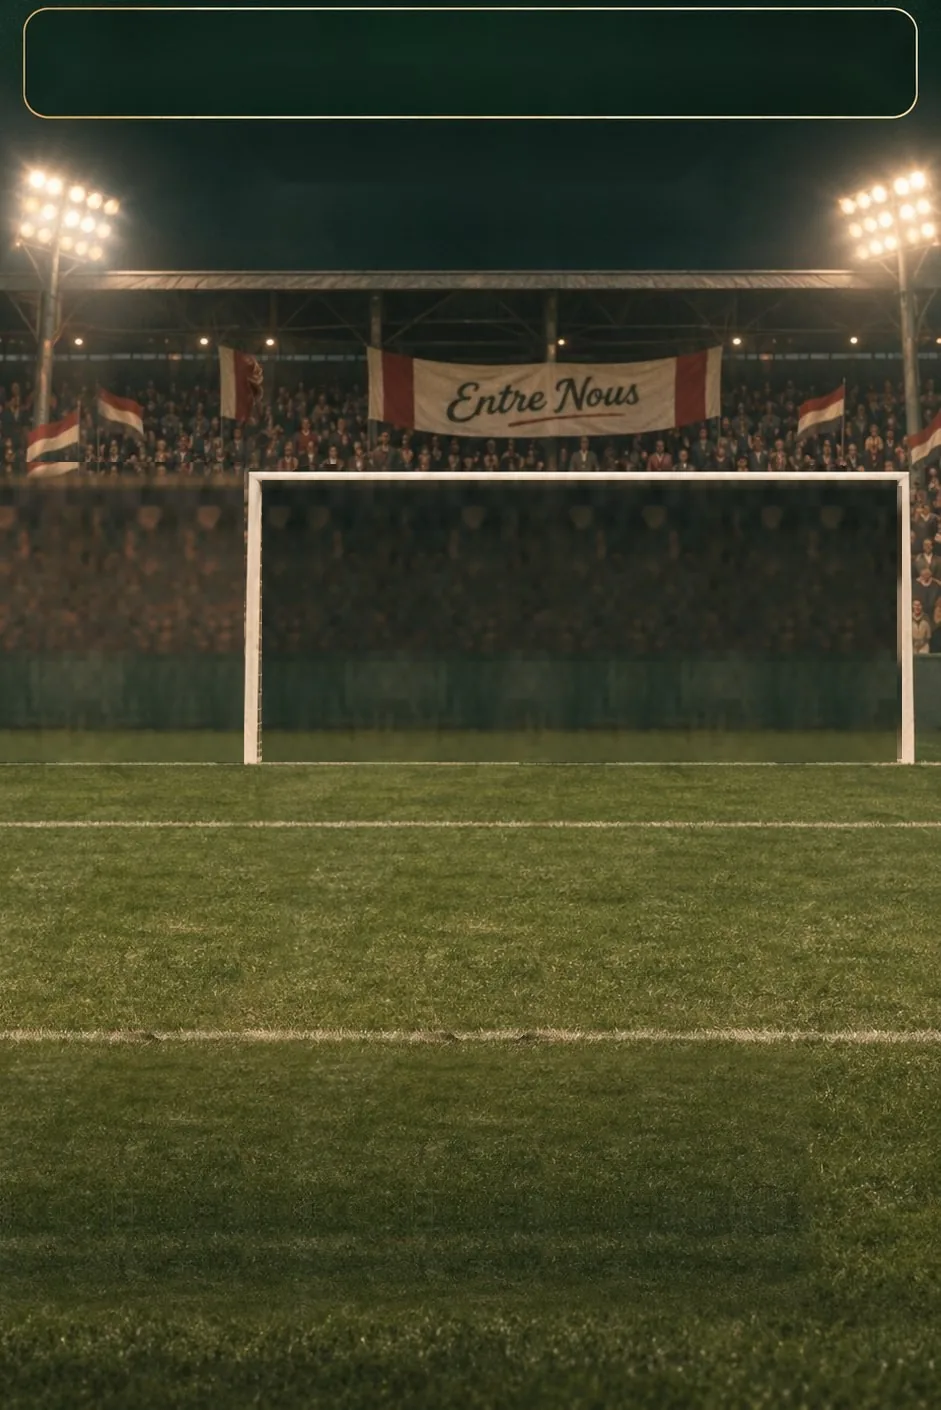
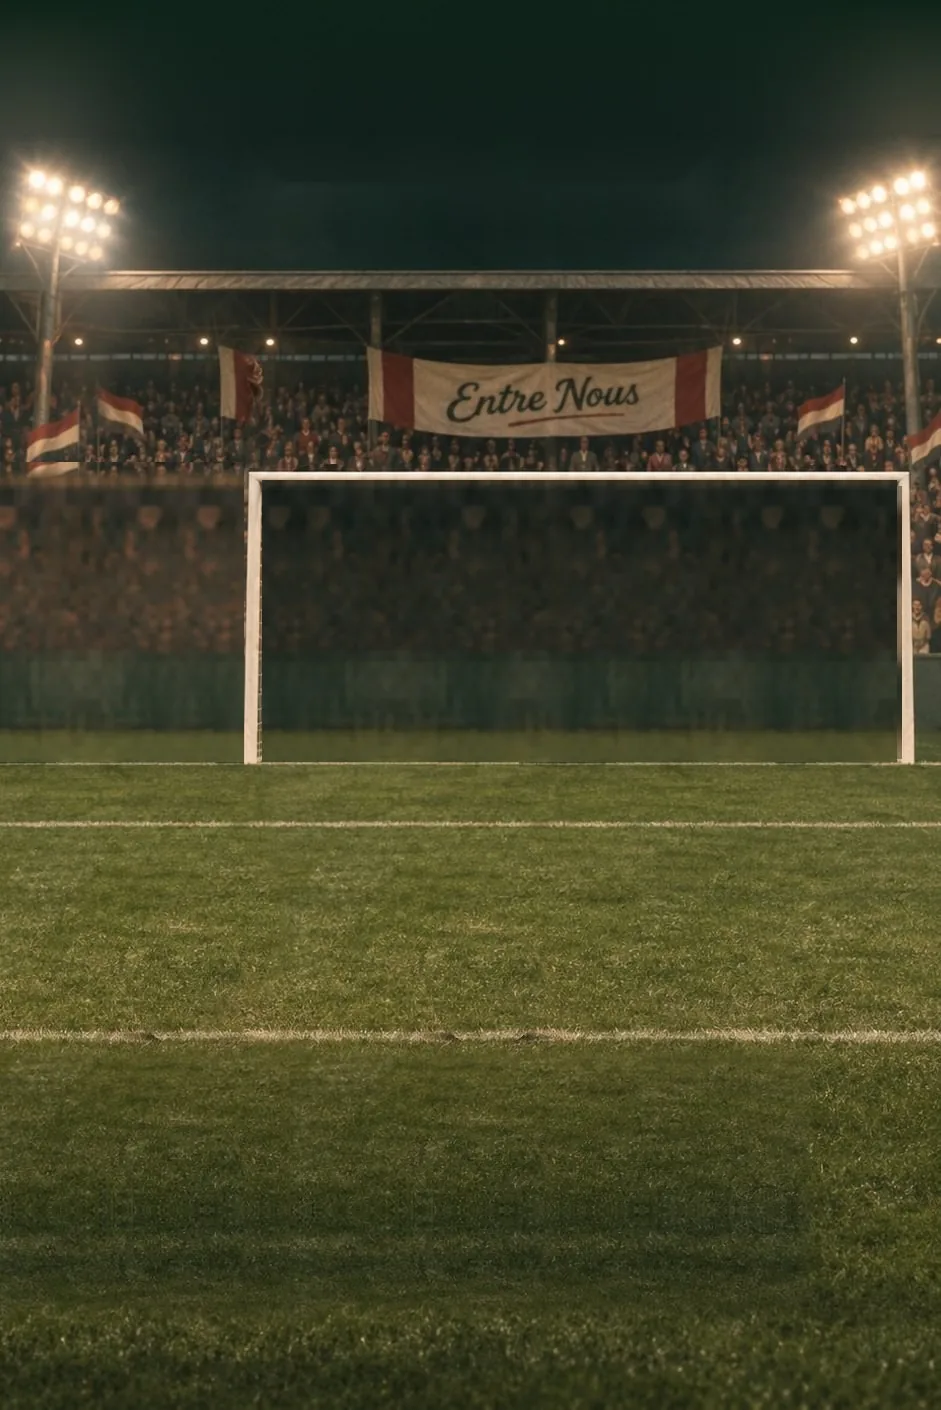
Tirs au but : vraiment plein écran (plus de texte dessous, score et croix tout en haut, ciel du stade jusqu'en haut) — en attente de validation
Claude-Session: https://claude.ai/code/session_017bSkysZbUvQznu3NuY22Vg

Changed region(s): [[0.8321, 0.0, 0.9862, 0.0936], [0.0, 0.0312, 0.1541, 0.0936]]

diff --git a/src/PenaltyDuel.tsx b/src/PenaltyDuel.tsx
@@ -166,11 +166,8 @@ export default function PenaltyDuel({ groupId, groupName }: Props) {
   const [loading, setLoading] = useState(true)
   const [error, setError] = useState<string | null>(null)
 
-  // animation en cours (tir aveugle ou plongeon du gardien)
-  const [animMode, setAnimMode] = useState<'shoot' | 'keep' | null>(null)
+  // animation en cours (tir aveugle ou plongeon du gardien) : on bloque les choix
   const [animBusy, setAnimBusy] = useState(false)
-  const [animStage, setAnimStage] = useState<'flying' | 'result' | null>(null)
-  const [animResult, setAnimResult] = useState<{ scored: boolean; points: number; shooterZone: string } | null>(null)
   const [finishedSoundPlayed, setFinishedSoundPlayed] = useState<string | null>(null)
   const [revancheBusy, setRevancheBusy] = useState(false)
   const [tab, setTab] = useState<'current' | 'history'>('current')
@@ -315,16 +312,10 @@ export default function PenaltyDuel({ groupId, groupName }: Props) {
   const nextKeepAttempt = myKeepAttempts.find((a) => a.shot_taken && !a.resolved) ?? null
   const shotsDone = myShotAttempts.filter((a) => a.shooter_zone !== null).length
   const savesDone = myKeepAttempts.filter((a) => a.resolved).length
-  // panenkas déjà tentées par l'adversaire contre moi dans ce duel (tirs
-  // déjà révélés), pour l'astuce du gardien
-  const opponentPanenkas = myKeepAttempts.filter((a) => a.resolved && a.shooter_zone === 'milieu').length
-  const opponentPseudo = duel ? pseudos[isPlayerA ? duel.player_b_id ?? '' : duel.player_a_id] : undefined
 
   const pickShotZone = async (zone: string) => {
     if (!selected || animBusy || !nextShotAttempt) return
     setAnimBusy(true)
-    setAnimMode('shoot')
-    setAnimStage('flying')
     // le tireur frappe tout de suite (tir à l'aveugle : on ne voit pas le
     // plongeon adverse), pendant que le tir est enregistré
     const anim = sceneRef.current?.play({ shot: zone, dive: null, blind: true, onKick: playKick })
@@ -334,10 +325,10 @@ export default function PenaltyDuel({ groupId, groupName }: Props) {
     await anim
     if (err) {
       setError(err.message)
-      setAnimBusy(false); setAnimMode(null); setAnimStage(null)
+      setAnimBusy(false)
       return
     }
-    setAnimBusy(false); setAnimMode(null); setAnimStage(null)
+    setAnimBusy(false)
     await openDuel(selected)
     await loadList()
   }
@@ -345,17 +336,13 @@ export default function PenaltyDuel({ groupId, groupName }: Props) {
   const pickSaveZone = async (zone: string) => {
     if (!selected || animBusy || !nextKeepAttempt) return
     setAnimBusy(true)
-    setAnimMode('keep')
-    setAnimResult(null)
-    setAnimStage('flying')
-
     const attemptRef = nextKeepAttempt
     const { error: err } = await supabase.rpc('submit_save', {
       p_duel_id: selected, p_attempt_number: attemptRef.attempt_number, p_zone: zone,
     })
     if (err) {
       setError(err.message)
-      setAnimBusy(false); setAnimMode(null); setAnimStage(null)
+      setAnimBusy(false)
       return
     }
 
@@ -375,13 +362,11 @@ export default function PenaltyDuel({ groupId, groupName }: Props) {
     await sceneRef.current?.play({
       shot: shooterZone, dive: zone, goal: scored,
       onResult: () => {
-        setAnimResult({ scored, points: resolved?.points ?? 0, shooterZone })
-        setAnimStage('result')
         if (scored) { if (shooterZone === 'milieu') playPanenka(); else playGoal() }
         else playSave()
       },
     })
-    setAnimBusy(false); setAnimMode(null); setAnimStage(null); setAnimResult(null)
+    setAnimBusy(false)
     await openDuel(selected)
     await loadList()
   }
@@ -438,9 +423,6 @@ export default function PenaltyDuel({ groupId, groupName }: Props) {
           // pendant qu'on joue : le jeu prend tout l'écran du téléphone, croix en haut à droite pour sortir
           createPortal(
           <div className="pk-full" role="dialog" aria-label="Tirs au but">
-            <div className="pk-full-top">
-              <button className="pk-full-close" aria-label="Quitter" disabled={animBusy} onClick={() => setSelected(null)}>✕</button>
-            </div>
             <div className="pk-full-stage">
             <PenaltyScene
               ref={sceneRef}
@@ -452,31 +434,8 @@ export default function PenaltyDuel({ groupId, groupName }: Props) {
               hint={myTurnToShoot ? '👆 Touche où tu tires' : '🧤 Touche où tu plonges'}
               hideKeeper={myTurnToShoot}
             />
-            </div>
-            <div className="pk-full-caption">
-
-            {animStage === 'result' && animResult ? (
-              <p className={"penalty-anim-caption " + (animResult.scored ? 'penalty-caption-goal' : 'penalty-caption-save')}>
-                {animResult.scored
-                  ? (animResult.shooterZone === 'milieu' ? '🎩 Panenka ! But au milieu (+2)' : '⚽ But dans le coin ! (+1)')
-                  : '🧤 Arrêté ! (+0)'}
-              </p>
-            ) : animMode === 'keep' && animStage === 'flying' ? (
-              <p className="penalty-anim-caption">👀 Le tir arrive...</p>
-            ) : animMode === 'shoot' && animStage ? (
-              <p className="penalty-anim-caption">⚽ Tir envoyé, à l'aveugle...</p>
-            ) : myTurnToShoot ? (
-              <p className="predictions-period">Touche la cage là où tu veux tirer, ou glisse le doigt du ballon vers la cage (tir {shotsDone + 1} / 3, l'adversaire ne le voit pas).</p>
-            ) : (
-              <>
-                <p className="predictions-period">Touche la cage là où tu plonges : devine où l'adversaire a tiré (arrêt {savesDone + 1} / 3).</p>
-                <p className="penalty-keeper-tip">
-                  {opponentPanenkas > 0
-                    ? `👀 ${opponentPseudo ?? 'Ton adversaire'} a déjà tenté ${opponentPanenkas} panenka${opponentPanenkas > 1 ? 's' : ''} dans ce duel…`
-                    : '💡 Il tire souvent au milieu ? Reste au milieu pour arrêter la panenka !'}
-                </p>
-              </>
-            )}
+              <button className="pk-full-close" aria-label="Quitter" disabled={animBusy} onClick={() => setSelected(null)}>✕</button>
+              {error && <p className="pk-full-error">{error}</p>}
             </div>
           </div>, document.body)
         ) : (

diff --git a/src/PenaltyScene.css b/src/PenaltyScene.css
@@ -43,14 +43,18 @@
 .pks-target.show { animation: pks-target 1.1s ease-out forwards; }
 @keyframes pks-target { 0% { opacity: 0; transform: translate(-50%, -50%) scale(.3) } 25% { opacity: 1; transform: translate(-50%, -50%) scale(1.1) } 40% { transform: translate(-50%, -50%) scale(1) } 100% { opacity: 1; transform: translate(-50%, -50%) scale(1) } }
 
-/* ---- plein écran pendant qu'on joue (tirs au but) ---- */
-.pk-full { position: fixed; inset: 0; z-index: 3000; background: #0b1f15; display: flex; flex-direction: column; align-items: center; justify-content: flex-start;
+/* ---- plein écran pendant qu'on joue (tirs au but) : rien d'autre que la scène + une croix ---- */
+/* la scène est calée en bas (pelouse jusqu'au bord) ; au-dessus, le ciel sombre du stade continue */
+.pk-full { position: fixed; inset: 0; z-index: 3000; background: #0f2319; display: flex; align-items: flex-end; justify-content: center;
   padding: env(safe-area-inset-top) 0 env(safe-area-inset-bottom); overscroll-behavior: contain; touch-action: none; }
-.pk-full-stage { width: 100%; display: flex; justify-content: center; flex: 0 1 auto; min-height: 0; }
-.pk-full .pks { max-width: none; border-radius: 0; width: min(100vw, calc((100dvh - 150px - env(safe-area-inset-top) - env(safe-area-inset-bottom)) * 941 / 1410)); }
-.pk-full-top { width: 100%; height: 50px; flex: none; display: flex; justify-content: flex-end; align-items: center; padding: 0 10px; }
-.pk-full-caption { width: 100%; max-width: 520px; padding: 6px 14px 10px; text-align: center; min-height: 86px; }
-.pk-full-caption p { margin: 4px 0; }
-.pk-full-close { width: 38px; height: 38px; border-radius: 50%;
-  border: 2px solid rgba(233,196,106,.7); background: rgba(15,30,20,.85); color: #f3e6c4; font-size: 18px; line-height: 1; display: flex; align-items: center; justify-content: center; cursor: pointer; }
+.pk-full-stage { position: relative; width: min(100vw, calc((100dvh - env(safe-area-inset-top) - env(safe-area-inset-bottom)) * 941 / 1410)); }
+.pk-full .pks { max-width: none; width: 100%; border-radius: 0; }
+/* bandeau TIR / DUEL et croix tout en haut de l'écran (dans le ciel du stade) */
+.pk-full .pks-hud { position: fixed; z-index: 21; top: calc(env(safe-area-inset-top) + 10px); left: 10px; right: 58px; height: 54px;
+  background: rgba(10,26,18,.75); border: 1.5px solid rgba(233,196,106,.55); border-radius: 12px; }
+.pk-full .pks-hud .val { font-size: 24px; }
+.pk-full-close { position: fixed; z-index: 21; top: calc(env(safe-area-inset-top) + 19px); right: 12px; width: 36px; height: 36px; border-radius: 50%;
+  border: 2px solid rgba(233,196,106,.7); background: rgba(15,30,20,.8); color: #f3e6c4; font-size: 17px; line-height: 1;
+  display: flex; align-items: center; justify-content: center; cursor: pointer; padding: 0; }
 .pk-full-close:disabled { opacity: .45; }
+.pk-full-error { position: absolute; z-index: 20; left: 12px; right: 12px; bottom: 12px; margin: 0; padding: 8px 12px; border-radius: 10px; background: rgba(142,27,27,.92); color: #fff; font: 600 14px system-ui, sans-serif; text-align: center; }
